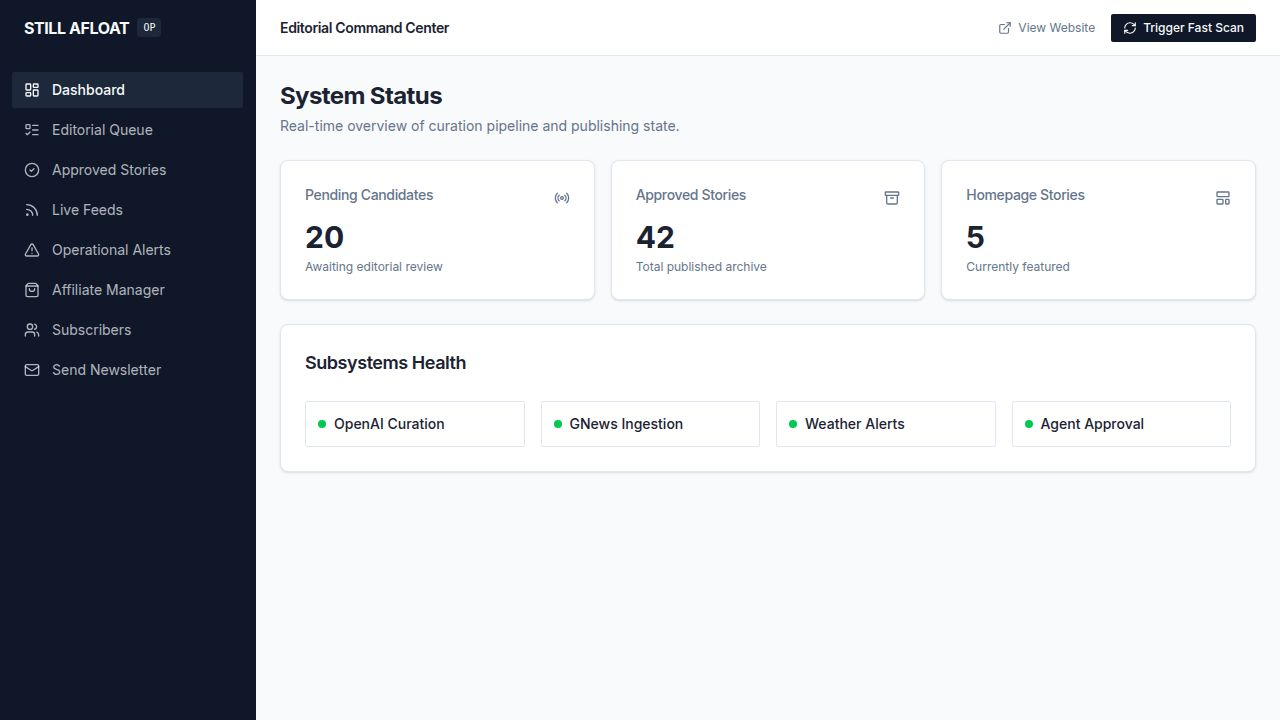
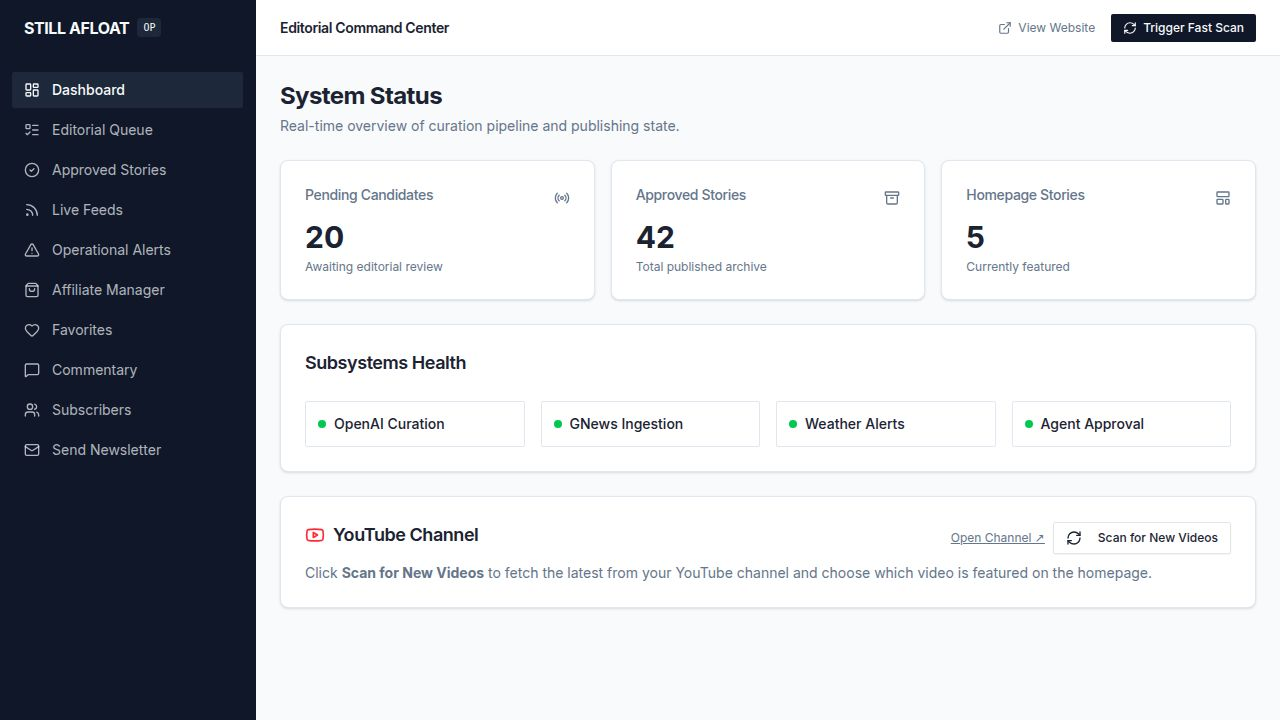
Add a token-based access system for enhanced security
Implement a localStorage-based authentication token system with a UI prompt for token entry. Update App.tsx to wrap routing with TokenGate, and modify commentary.tsx and queue.tsx to utilize the new auth-token utility for API requests.

Replit-Commit-Author: Agent
Replit-Commit-Session-Id: e9445796-0e1b-40c8-9ed0-6f3422938538
Replit-Commit-Checkpoint-Type: full_checkpoint
Replit-Commit-Event-Id: fc053ae9-2f20-4330-8731-b0ebdf768cb1
Replit-Commit-Screenshot-Url: https://storage.googleapis.com/screenshot-production-us-central1/d893f7a6-3dd1-4aa4-b89e-d22f78ac98e1/e9445796-0e1b-40c8-9ed0-6f3422938538/LQxLU7g
Replit-Helium-Checkpoint-Created: true

diff --git a/dashboard/src/components/token-gate.tsx b/dashboard/src/components/token-gate.tsx
@@ -1,0 +1,47 @@
+import { useState } from "react";
+import { setStoredToken } from "@/lib/auth-token";
+
+export function TokenGate({ children }: { children: React.ReactNode }) {
+  const [token, setToken] = useState(() => {
+    try { return localStorage.getItem("sa_agent_token") || ""; } catch { return ""; }
+  });
+  const [input, setInput] = useState("");
+  const [error, setError] = useState("");
+
+  if (token) return <>{children}</>;
+
+  function handleSubmit(e: React.FormEvent) {
+    e.preventDefault();
+    if (!input.trim()) { setError("Please enter your access token."); return; }
+    setStoredToken(input.trim());
+    setToken(input.trim());
+  }
+
+  return (
+    <div className="min-h-screen flex items-center justify-center bg-background">
+      <div className="w-full max-w-sm p-8 rounded-xl border bg-card shadow-sm">
+        <div className="mb-6 text-center">
+          <div className="text-2xl font-bold tracking-tight mb-1">Still Afloat</div>
+          <div className="text-sm text-muted-foreground">Enter your dashboard access token to continue</div>
+        </div>
+        <form onSubmit={handleSubmit} className="space-y-4">
+          <input
+            type="password"
+            autoFocus
+            placeholder="Access token"
+            value={input}
+            onChange={e => { setInput(e.target.value); setError(""); }}
+            className="w-full px-3 py-2 rounded-md border bg-background text-sm focus:outline-none focus:ring-2 focus:ring-primary"
+          />
+          {error && <p className="text-xs text-destructive">{error}</p>}
+          <button
+            type="submit"
+            className="w-full py-2 rounded-md bg-primary text-primary-foreground text-sm font-semibold hover:bg-primary/90 transition-colors"
+          >
+            Unlock Dashboard
+          </button>
+        </form>
+      </div>
+    </div>
+  );
+}

diff --git a/dashboard/src/App.tsx b/dashboard/src/App.tsx
@@ -5,6 +5,7 @@ import { TooltipProvider } from "@/components/ui/tooltip";
 import NotFound from "@/pages/not-found";
 
 import { Layout } from "@/components/layout";
+import { TokenGate } from "@/components/token-gate";
 import Dashboard from "@/pages/dashboard";
 import EditorialQueue from "@/pages/queue";
 import ApprovedStories from "@/pages/approved";
@@ -49,9 +50,11 @@ function App() {
   return (
     <QueryClientProvider client={queryClient}>
       <TooltipProvider>
-        <WouterRouter base={import.meta.env.BASE_URL.replace(/\/$/, "")}>
-          <Router />
-        </WouterRouter>
+        <TokenGate>
+          <WouterRouter base={import.meta.env.BASE_URL.replace(/\/$/, "")}>
+            <Router />
+          </WouterRouter>
+        </TokenGate>
         <Toaster />
       </TooltipProvider>
     </QueryClientProvider>

diff --git a/dashboard/src/pages/commentary.tsx b/dashboard/src/pages/commentary.tsx
@@ -6,16 +6,9 @@ import {
   Mic, Languages, Loader2, X, Tag, Youtube, Image,
 } from "lucide-react";
 
+import { authHeaders } from "@/lib/auth-token";
+
 const API = "";
-
-function getToken(): string {
-  return import.meta.env.VITE_AGENT_TOKEN || "";
-}
-
-function authHeaders(): Record<string, string> {
-  const t = getToken();
-  return t ? { "x-affiliate-token": t } : {};
-}
 
 // ── Types ──────────────────────────────────────────────────────────────────
 interface CommentaryPost {

diff --git a/dashboard/src/lib/auth-token.ts b/dashboard/src/lib/auth-token.ts
@@ -1,0 +1,18 @@
+const TOKEN_KEY = "sa_agent_token";
+
+export function getStoredToken(): string {
+  return localStorage.getItem(TOKEN_KEY) || "";
+}
+
+export function setStoredToken(token: string): void {
+  localStorage.setItem(TOKEN_KEY, token.trim());
+}
+
+export function clearStoredToken(): void {
+  localStorage.removeItem(TOKEN_KEY);
+}
+
+export function authHeaders(): Record<string, string> {
+  const t = getStoredToken();
+  return t ? { "x-affiliate-token": t } : {};
+}

diff --git a/dashboard/src/pages/queue.tsx b/dashboard/src/pages/queue.tsx
@@ -90,7 +90,7 @@ export default function EditorialQueue() {
 
   const handleAction = async (id: string, action: 'approve' | 'reject' | 'feature' | 'hold') => {
     setProcessing(prev => ({ ...prev, [id]: action }));
-    const token = import.meta.env.VITE_AGENT_TOKEN || '';
+    const token = (await import("@/lib/auth-token")).getStoredToken();
     const newStatus = ACTION_STATUS[action];
     const decidedAt = new Date().toISOString();
 
